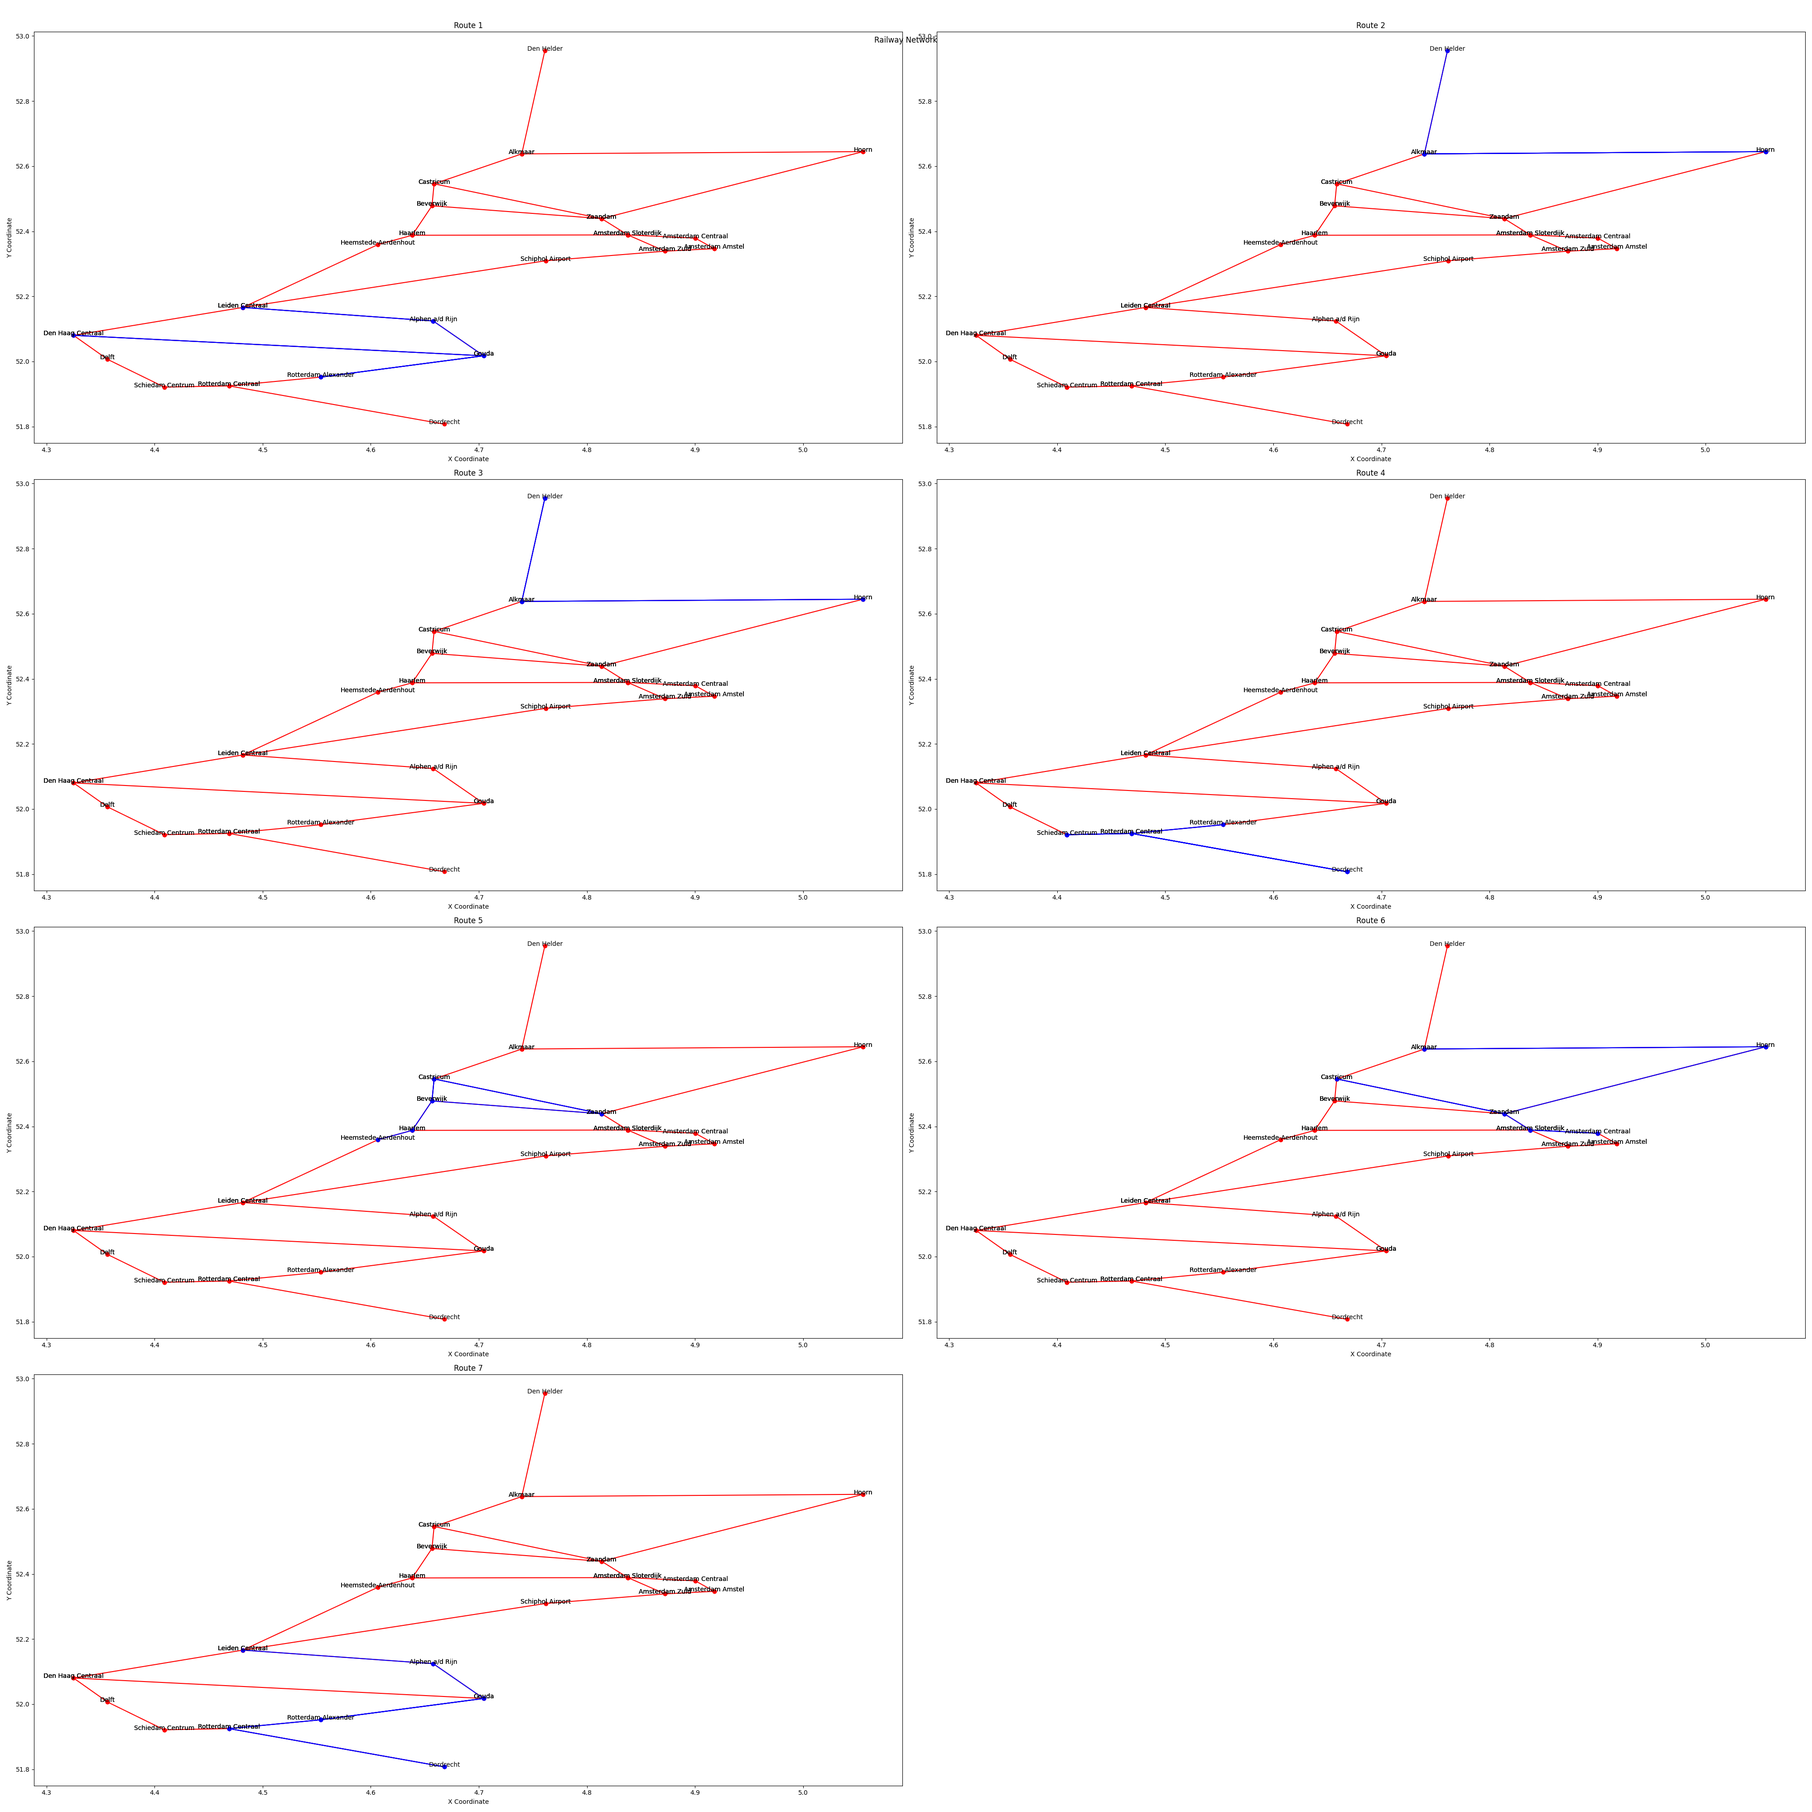
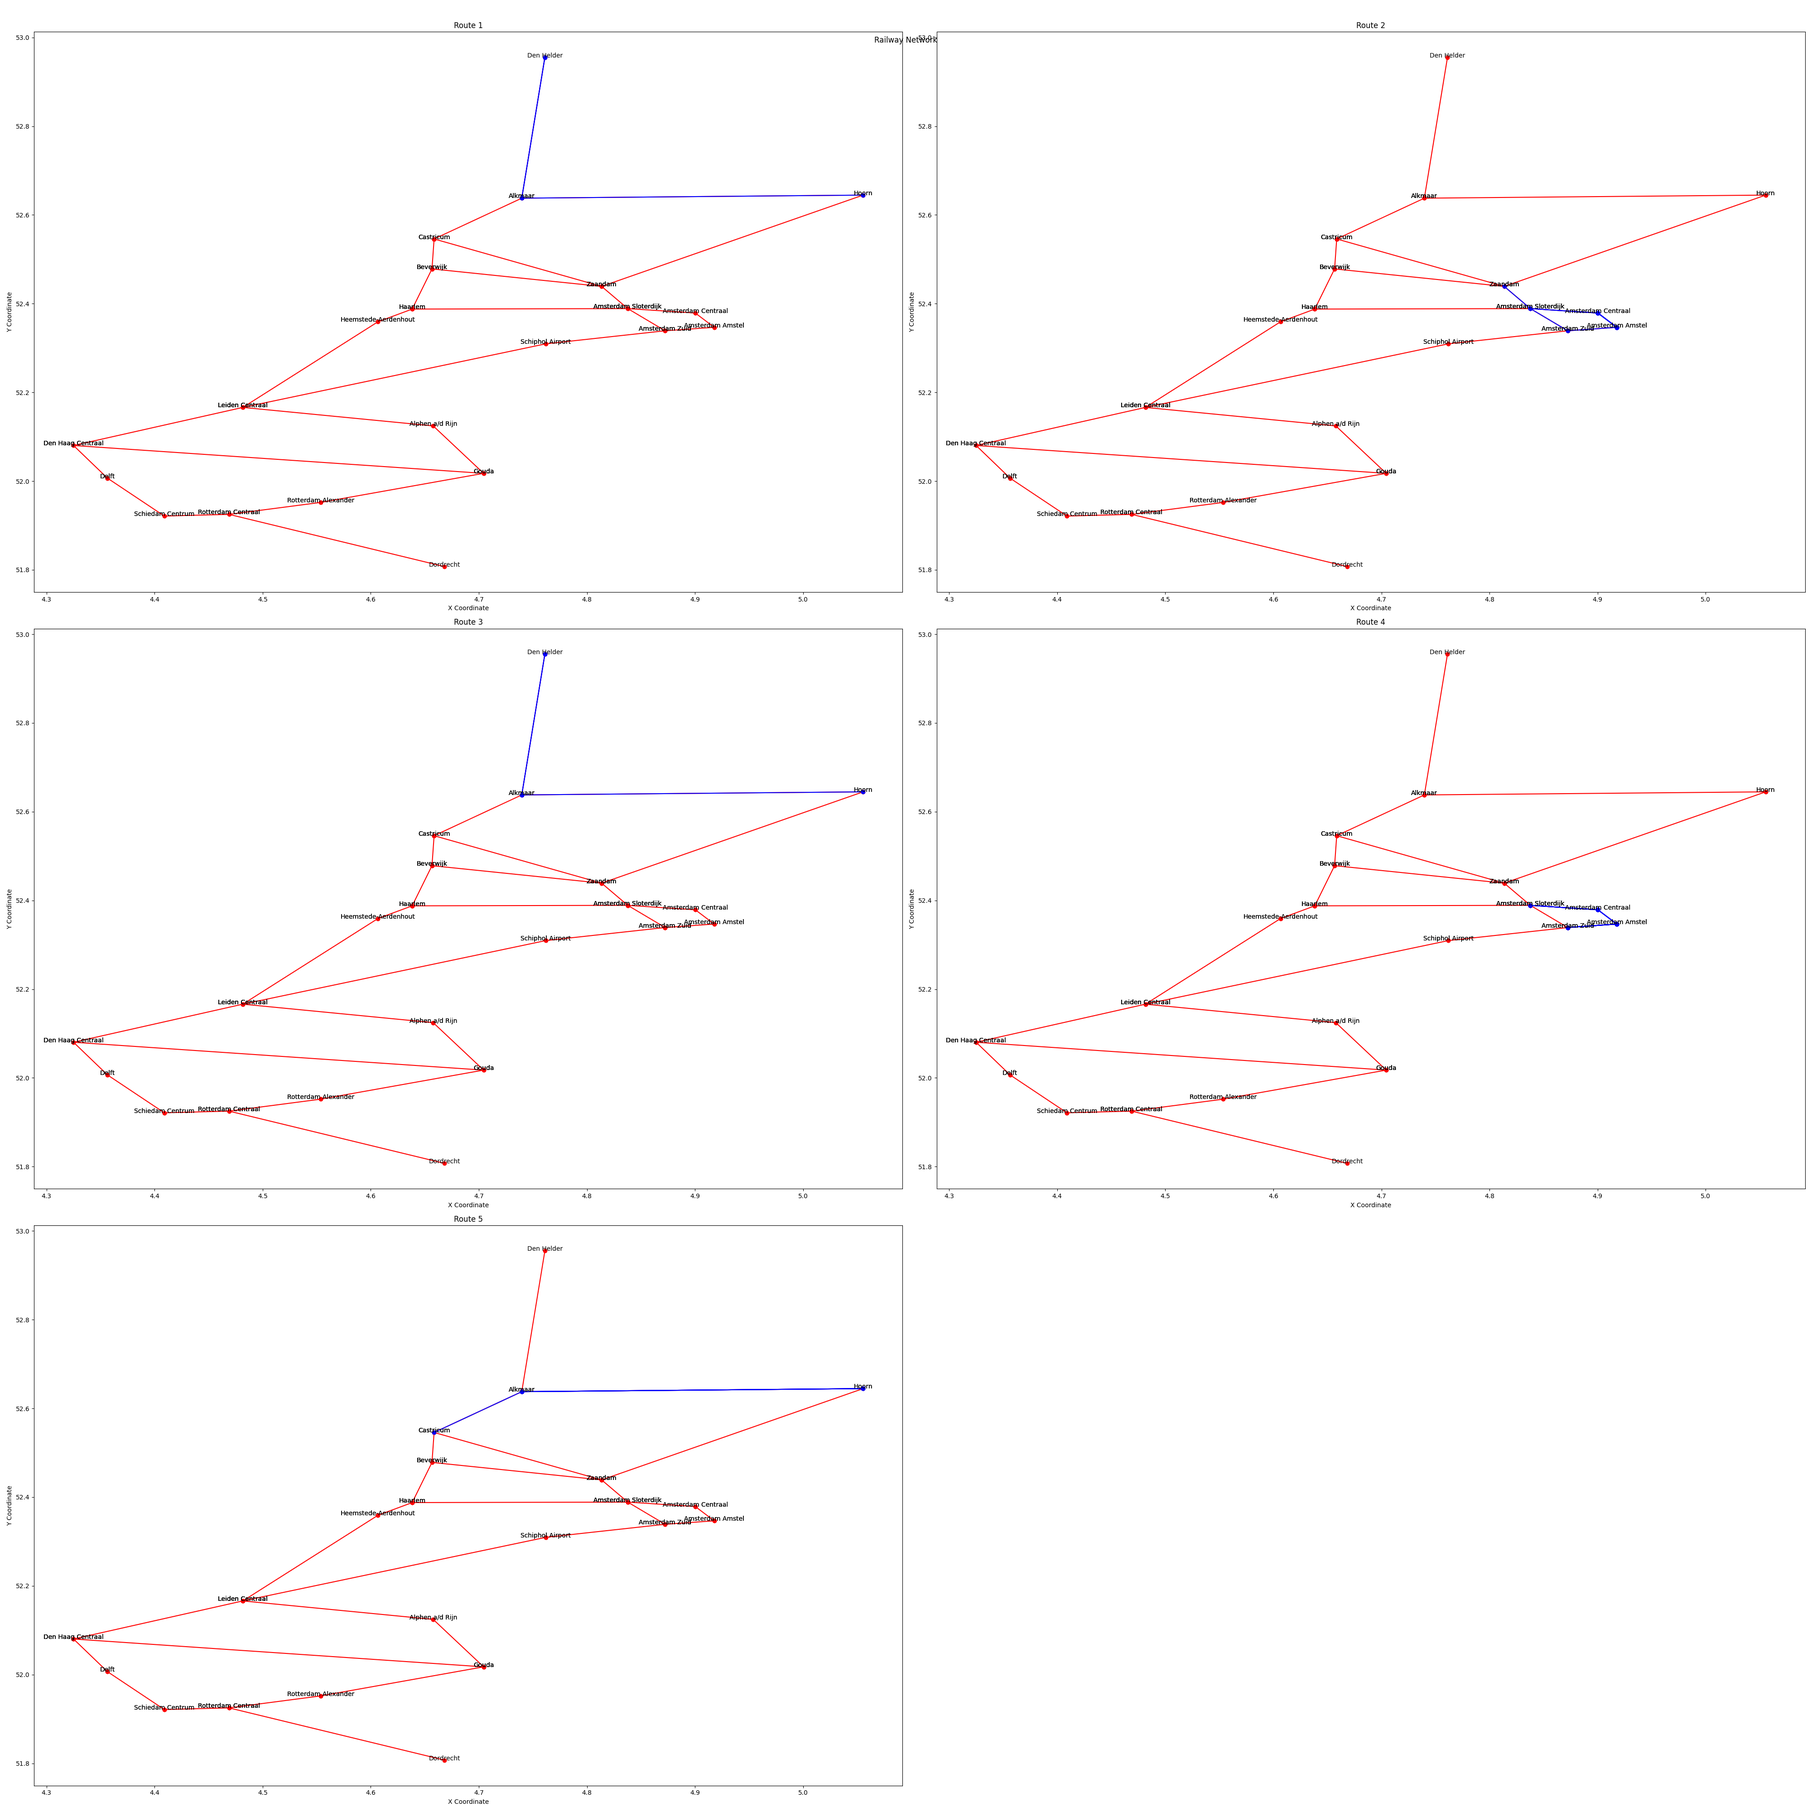
?

diff --git a/parent/code/algorithms/hillclimber.py b/parent/code/algorithms/hillclimber.py
@@ -1,0 +1,119 @@
+import random
+import copy
+
+from parent.code.algorithms.algorithm import Algorithm
+from parent.code.algorithms.random_algorithm import RandomAlgorithm
+from parent.code.algorithms.score import Score
+from parent.code.classes.railnl import RailNL
+from parent.code.classes.route import Route
+
+class Hillclimber(Algorithm):
+    def __init__(self, load: RailNL, algorithm: Algorithm) -> None:
+        super().__init__(load)
+        self.load = load
+        self.algorithm = algorithm
+        self.algorithm.run()
+        self.routes = copy.deepcopy(self.algorithm.routes)
+        self.score = Score(self.algorithm).calculate()
+        self.total_minutes = self.get_total_minutes()
+        self.total_connections_used = self.get_total_connections_used()
+
+    def new_connections_used(self, routes):
+        new_connections_used = set()
+        for route in routes:
+            for connection_list in route.get_connections_used():
+
+                # Ensure connection is a tuple
+                connection = tuple(connection_list)  
+
+                # Create the reverse connection tuple
+                reverse_connection = (connection[1], connection[0], connection[2]) 
+
+                # check if the connection has already been used, 
+                # add the connection if not
+                if reverse_connection not in new_connections_used:
+                    new_connections_used.add(connection)
+        return new_connections_used
+    
+    def new_total_minutes(self, routes) -> int:
+        return sum(route.time for route in routes)
+
+
+    def calculate_new_score(self, routes) -> float:
+        p = len(self.new_connections_used(routes)) / len(self.load.get_total_connections())
+        T = len(routes)
+        return p * 10000 - (T * 100 + self.new_total_minutes(routes))
+
+    def add_random_route(self, routes):
+        new_routes = copy.deepcopy(routes)
+        current_station = self.load.get_random_station()
+        route = Route()
+        time_used = 0
+
+        while current_station.has_connections():
+            # Debugging: print the current station and its connections
+            print(f"Current station: {current_station.name}")
+            print(f"Connections: {current_station.connections_dict()}")
+
+            # Choose a random connection
+            connection, duration = random.choice(list(current_station.connections_dict().items()))
+
+            # # Debugging: print the chosen connection and duration
+            # print(f"Chosen connection: {connection}, duration: {duration}")
+
+            if time_used + duration <= 120:
+                route.add_connection(current_station, connection, duration)
+                current_station = connection  # Assuming connection is the next station
+                time_used += duration
+            else:
+                break
+
+        if route.connections:
+            new_routes.append(route)
+        return new_routes
+
+
+    def run(self, iterations: int = 10) -> None:
+        
+        print(f"Initial score: {self.score}")
+
+        for iteration in range(iterations):
+            print(f"Iteration: {iteration + 1}")
+            if not self.routes:
+                print("No routes to change!")
+                return
+
+            new_routes = copy.deepcopy(self.routes)
+            route_to_remove = random.choice(new_routes)
+            new_routes.remove(route_to_remove)
+
+            new_score = self.calculate_new_score(new_routes)
+
+            if new_score > self.score:
+                print(f"New score: {new_score}")
+                self.routes = new_routes
+                self.score = new_score
+                self.total_minutes = sum(route.time for route in new_routes)
+                self.total_connections_used = self.new_connections_used(new_routes)
+            else:
+                new_routes = self.add_random_route(new_routes)
+                new_score = self.calculate_new_score(new_routes)
+
+                if new_score > self.score:
+                    print(f"New score: {new_score}")
+                    self.routes = new_routes
+                    self.score = new_score
+                    self.total_minutes = sum(route.time for route in new_routes)
+                    self.total_connections_used = self.new_connections_used(new_routes)
+                else:
+                    print(f"No change made, current score: {self.score}")
+
+if __name__ == "__main__":
+    data = RailNL("Holland")
+
+    # Test Hillclimber algorithm with RandomAlgorithm as starting state
+    hillclimber_alg = Hillclimber(data, RandomAlgorithm(data))
+    hillclimber_alg.run()
+    hillclimber_alg.make_picture()
+
+# This algorithm is trash :)

diff --git a/parent/code/algorithms/finnsroutes.py b/parent/code/algorithms/finnsroutes.py
@@ -13,7 +13,7 @@ class Finn(Algorithm):
         for i in range(len(lijst_route1) - 1):
             station1 = self.load.stations[lijst_route1[i]]
             station2 = self.load.stations[lijst_route1[i + 1]]
-            route1.add(station1, station2, station1.connection_duration(station2))
+            route1.add_connection(station1, station2, station1.connection_duration(station2))
         self.routes.append(route1)
 
         route2 = Route()
@@ -21,7 +21,7 @@ class Finn(Algorithm):
         for i in range(len(lijst_route2) - 1):
             station1 = self.load.stations[lijst_route2[i]]
             station2 = self.load.stations[lijst_route2[i + 1]]
-            route2.add(station1, station2, station1.connection_duration(station2))
+            route2.add_connection(station1, station2, station1.connection_duration(station2))
         self.routes.append(route2)
 
         route3 = Route()
@@ -29,7 +29,7 @@ class Finn(Algorithm):
         for i in range(len(lijst_route3) - 1):
             station1 = self.load.stations[lijst_route3[i]]
             station2 = self.load.stations[lijst_route3[i + 1]]
-            route3.add(station1, station2, station1.connection_duration(station2))
+            route3.add_connection(station1, station2, station1.connection_duration(station2))
         self.routes.append(route3)
 
         route4 = Route()
@@ -37,7 +37,7 @@ class Finn(Algorithm):
         for i in range(len(lijst_route4) - 1):
             station1 = self.load.stations[lijst_route4[i]]
             station2 = self.load.stations[lijst_route4[i + 1]]
-            route4.add(station1, station2, station1.connection_duration(station2))
+            route4.add_connection(station1, station2, station1.connection_duration(station2))
         self.routes.append(route4)
 
         route5 = Route()
@@ -45,7 +45,7 @@ class Finn(Algorithm):
         for i in range(len(lijst_route5) - 1):
             station1 = self.load.stations[lijst_route5[i]]
             station2 = self.load.stations[lijst_route5[i + 1]]
-            route5.add(station1, station2, station1.connection_duration(station2))
+            route5.add_connection(station1, station2, station1.connection_duration(station2))
         self.routes.append(route5)
 
         route6 = Route()
@@ -53,7 +53,7 @@ class Finn(Algorithm):
         for i in range(len(lijst_route6) - 1):
             station1 = self.load.stations[lijst_route6[i]]
             station2 = self.load.stations[lijst_route6[i + 1]]
-            route6.add(station1, station2, station1.connection_duration(station2))
+            route6.add_connection(station1, station2, station1.connection_duration(station2))
         self.routes.append(route6)
 
         route7 = Route()
@@ -61,5 +61,5 @@ class Finn(Algorithm):
         for i in range(len(lijst_route7) - 1):
             station1 = self.load.stations[lijst_route7[i]]
             station2 = self.load.stations[lijst_route7[i + 1]]
-            route7.add(station1, station2, station1.connection_duration(station2))
+            route7.add_connection(station1, station2, station1.connection_duration(station2))
         self.routes.append(route7)

diff --git a/parent/main.py b/parent/main.py
@@ -1,44 +1,54 @@
+import random
+import copy
+import matplotlib.pyplot as plt
+import numpy as np
+
 from code.classes.railnl import RailNL
 from code.algorithms.algorithm import Algorithm
-from code.algorithms.greedy import Greedy
 from code.algorithms.random_algorithm import RandomAlgorithm
-from code.algorithms.greedy import Greedy
-from code.algorithms.finnsroutes import Finn
+from code.algorithms.hillclimber import Hillclimber
 from code.algorithms.score import Score
-from code.classes.station_class import Station
 from code.experiments.experiments import Experiment
-
 
 if __name__ == "__main__":
     data = RailNL("Holland")
-    
-    # # Test Finns routes
-    # finn = Finn(data)
-    # finn_score = Score(finn)
-    # finn.make_picture()
-    # print(f"Finn Score: {finn_score.calculate()}")
 
     # # Test Random Algorithm
     # random_algorithm = RandomAlgorithm(data)
     # random_score = Score(random_algorithm)
-    # random_algorithm.make_picture() # after score so a second run doesnt affect the score
+    # random_algorithm.make_picture()
+    # print(random_algorithm.output())
     # print(f"Random Algorithm Score: {random_score.calculate()}")
 
-    # Test Greedy Algorithm
-    greedy_alg = Greedy(data)
-    greedy_score = Score(greedy_alg).calculate()
-    greedy_alg.make_picture()
-    print(f"Greedy algorithm score: {greedy_score}")
+    # Perform experiment with RandomAlgorithm and collect scores
+    random_experiment = Experiment(RandomAlgorithm, "Holland", iterations=10000)
+    random_experiment.average_score()
+    scores = random_experiment.get_scores()
 
-    greedy_experiment = Experiment(Greedy, "Holland", iterations=100)
-    print(f"Greedy Average Score: {greedy_experiment.average_score()}")
-    print(f"greedy scores: {greedy_experiment.get_scores()} ")
+    # Plotting the frequency distribution of scores
+    plt.figure(figsize=(10, 6))
+    plt.hist(scores, bins=20, edgecolor='black', alpha=0.7)
+    plt.title('Frequency Distribution of Scores RandomAlgorithm N routes (0-7)')
+    plt.xlabel('Score')
+    plt.ylabel('Frequency')
+    plt.grid(True)
+    plt.tight_layout()
+    plt.savefig("freq.png")
 
-    # test best_starting_station
-    greedy_alg2 = Greedy(data).best_starting_station()
-    greedy2_score = Score(greedy_alg2).calculate()
-    print(f"Greedy best starting station score: {greedy2_score}")
 
+    # # Test Greedy Algorithm
+    # greedy_alg = Greedy(data)
+    # greedy_score = Score(greedy_alg).calculate()
+    # greedy_alg.make_picture()
+    # print(f"Greedy algorithm score: {greedy_score}")
+
+    # greedy_experiment = Experiment(Greedy, "Holland", iterations=100)
+    # print(f"Greedy Average Score: {greedy_experiment.average_score()}")
+    # print(f"greedy scores: {greedy_experiment.get_scores()} ")
+
+    # # Test Hillclimber algorithm
+    # hillclimber_alg = Hillclimber(data, RandomAlgorithm(data))
+    # hillclimber_alg.make_picture()
 
     
 

diff --git a/parent/code/algorithms/algorithm.py b/parent/code/algorithms/algorithm.py
@@ -9,7 +9,7 @@ class Algorithm:
     def __init__(self, load: RailNL) -> None:
         self.load = load
         self.routes: list[Any] = []
-        self.total_minutes = 0
+        self.total_minutes: int = 0
         self.total_connections_used: set[tuple[str, str, float]] = set()
 
 
@@ -44,18 +44,18 @@ class Algorithm:
         as the connection from A to B.
         """
         for route in self.routes:
-                for connection_list in route.get_connections_used():
+            for connection_list in route.get_connections_used():
 
-                    # Ensure connection is a tuple
-                    connection = tuple(connection_list)  
+                # Ensure connection is a tuple
+                connection = tuple(connection_list)  
 
-                    # Create the reverse connection tuple
-                    reverse_connection = (connection[1], connection[0], connection[2]) 
+                # Create the reverse connection tuple
+                reverse_connection = (connection[1], connection[0], connection[2]) 
 
-                    # check if the connection has already been used, 
-                    # add the connection if not
-                    if reverse_connection not in self.total_connections_used:
-                        self.total_connections_used.add(connection)
+                # check if the connection has already been used, 
+                # add the connection if not
+                if reverse_connection not in self.total_connections_used:
+                    self.total_connections_used.add(connection)
 
         return set(self.total_connections_used)
     

diff --git a/parent/code/algorithms/score.py b/parent/code/algorithms/score.py
@@ -5,14 +5,13 @@ class Score:
         self.algorithm = algorithm
         self.algorithm.run()  # Ensure routes are generated
         self.total_connections_used = set() # all connections used (one way)
+    
+    def fraction_used(self) -> float:
+        tot_connections_available = set(map(tuple, self.algorithm.load.connections)) # all connections available (one way)
+        return len(self.algorithm.get_total_connections_used()) / (len(tot_connections_available))
 
     def calculate(self) -> float:
-        Min = self.algorithm.get_total_minutes()
-        tot_connections_available = set(map(tuple, self.algorithm.load.connections)) # all connections available (one way)
-        p = len(self.algorithm.get_total_connections_used()) / (len(tot_connections_available))
-        T = self.algorithm.number_of_routes()
-
-        K = p * 10000 - (T * 100 + Min)
+        K = self.fraction_used() * 10000 - (self.algorithm.number_of_routes() * 100 + self.algorithm.get_total_minutes())
         return K
 
 

diff --git a/parent/code/classes/route.py b/parent/code/classes/route.py
@@ -14,7 +14,7 @@ class Route:
     def connections(self):
         return self.connections_used
 
-    def add(self, station1: "Station", station2: "Station", duur: int) -> None:
+    def add_connection(self, station1: "Station", station2: "Station", duur: int) -> None:
         self.connections_used.append([station1.name, station2.name, duur])
         if self.stations:
             if self.stations[-1] != station1:
@@ -22,7 +22,7 @@ class Route:
         self.stations.append(station2)
         self.time += int(duur)
 
-    def remove(self, connection: tuple[str, str, int]) -> None:
+    def remove_connection(self, connection: tuple[str, str, int]) -> None:
         if connection in self.connections_used:
             self.connections_used.remove(connection)
             self.time -= int(connection[2])

diff --git a/parent/code/classes/railnl.py b/parent/code/classes/railnl.py
@@ -81,3 +81,6 @@ class RailNL:
     def get_random_station(self) -> "Station":
         """Return a random station from self.stations."""
         return random.choice(list(self.stations.values()))
+    
+    def get_total_connections(self) -> set:
+        return set(map(tuple, self.connections))
